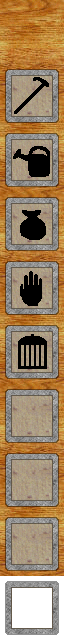
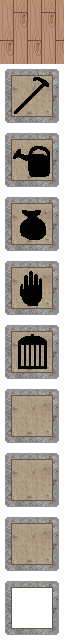
change hud orientation / prepare for showing score

diff --git a/lib/harvest-ruby.rb b/lib/harvest-ruby.rb
@@ -96,7 +96,7 @@ module HarvestRuby
     end
   end
 
-  class HUD < Struct.new :x, :y, :img, :mode
+  class HUD < Struct.new :x, :y, :width, :img, :mode, :coins
     ICON_IN_TILESET = {
     # 0 => 'Blank'
       hoe: 1,
@@ -106,11 +106,26 @@ module HarvestRuby
       trash: 5
     #-1 => 'Active Overlay'
     }
+      FONT_HEIGHT = 40
+    def initialize(*args)
+      super
+      @font = Gosu::Font.new(FONT_HEIGHT)
+    end
+
     def draw
-      ICON_IN_TILESET.each do |ico,idx|
-        img[idx].draw(x,y+(idx*TILE_SIZE),98)
-        img[-1].draw(x,y+(idx*TILE_SIZE),99,1,1,0xff_ffffff, :additive) if mode == ico
+      # Panel Background
+      (width / TILE_SIZE.to_f).ceil.times do |i|
+        img[0].draw(x+(i*TILE_SIZE),y,97)
       end
+
+      # Panel Actions
+      ICON_IN_TILESET.each do |ico,idx|
+        img[idx].draw(x+(idx*TILE_SIZE),y,98)
+        img[-1].draw(x+(idx*TILE_SIZE),y,99,1,1,0xff_ffffff, :additive) if mode == ico
+      end
+
+      # Currency
+      @font.draw("€ " + coins.to_s, x+20+(ICON_IN_TILESET.size+1)*TILE_SIZE, y+TILE_SIZE-FONT_HEIGHT, 98)
     end
   end
 
@@ -118,13 +133,15 @@ module HarvestRuby
     include Helper
 
     MEDIA_PATH = File.expand_path('../media/', __dir__)
-
+    WIDTH = 768
+    HEIGHT = 512
     def initialize
-      super(800,600,false)
+      super(WIDTH,HEIGHT,false)
 
       @crops = {}
       @cursor = Cursor.new(load_image('cursor.png', tile_size: 48))
-      @hud = HUD.new(0,0,load_image('HUD.png'), :grab)
+      @hud = HUD.new(0,0,WIDTH,load_image('HUD.png'), :grab)
+      @hud.coins = 100
     end
 
     def load_image(file, tile_size: TILE_SIZE)
@@ -157,7 +174,7 @@ module HarvestRuby
     end
 
     def draw
-      Gosu.draw_rect(0,0,800,600,0xff_006040,0)
+      Gosu.draw_rect(0,0,WIDTH,HEIGHT,0xff_4d4331,0)
       @crops.each do |pos,crop|
         crop.draw(pos.x, pos.y, 5)
       end
